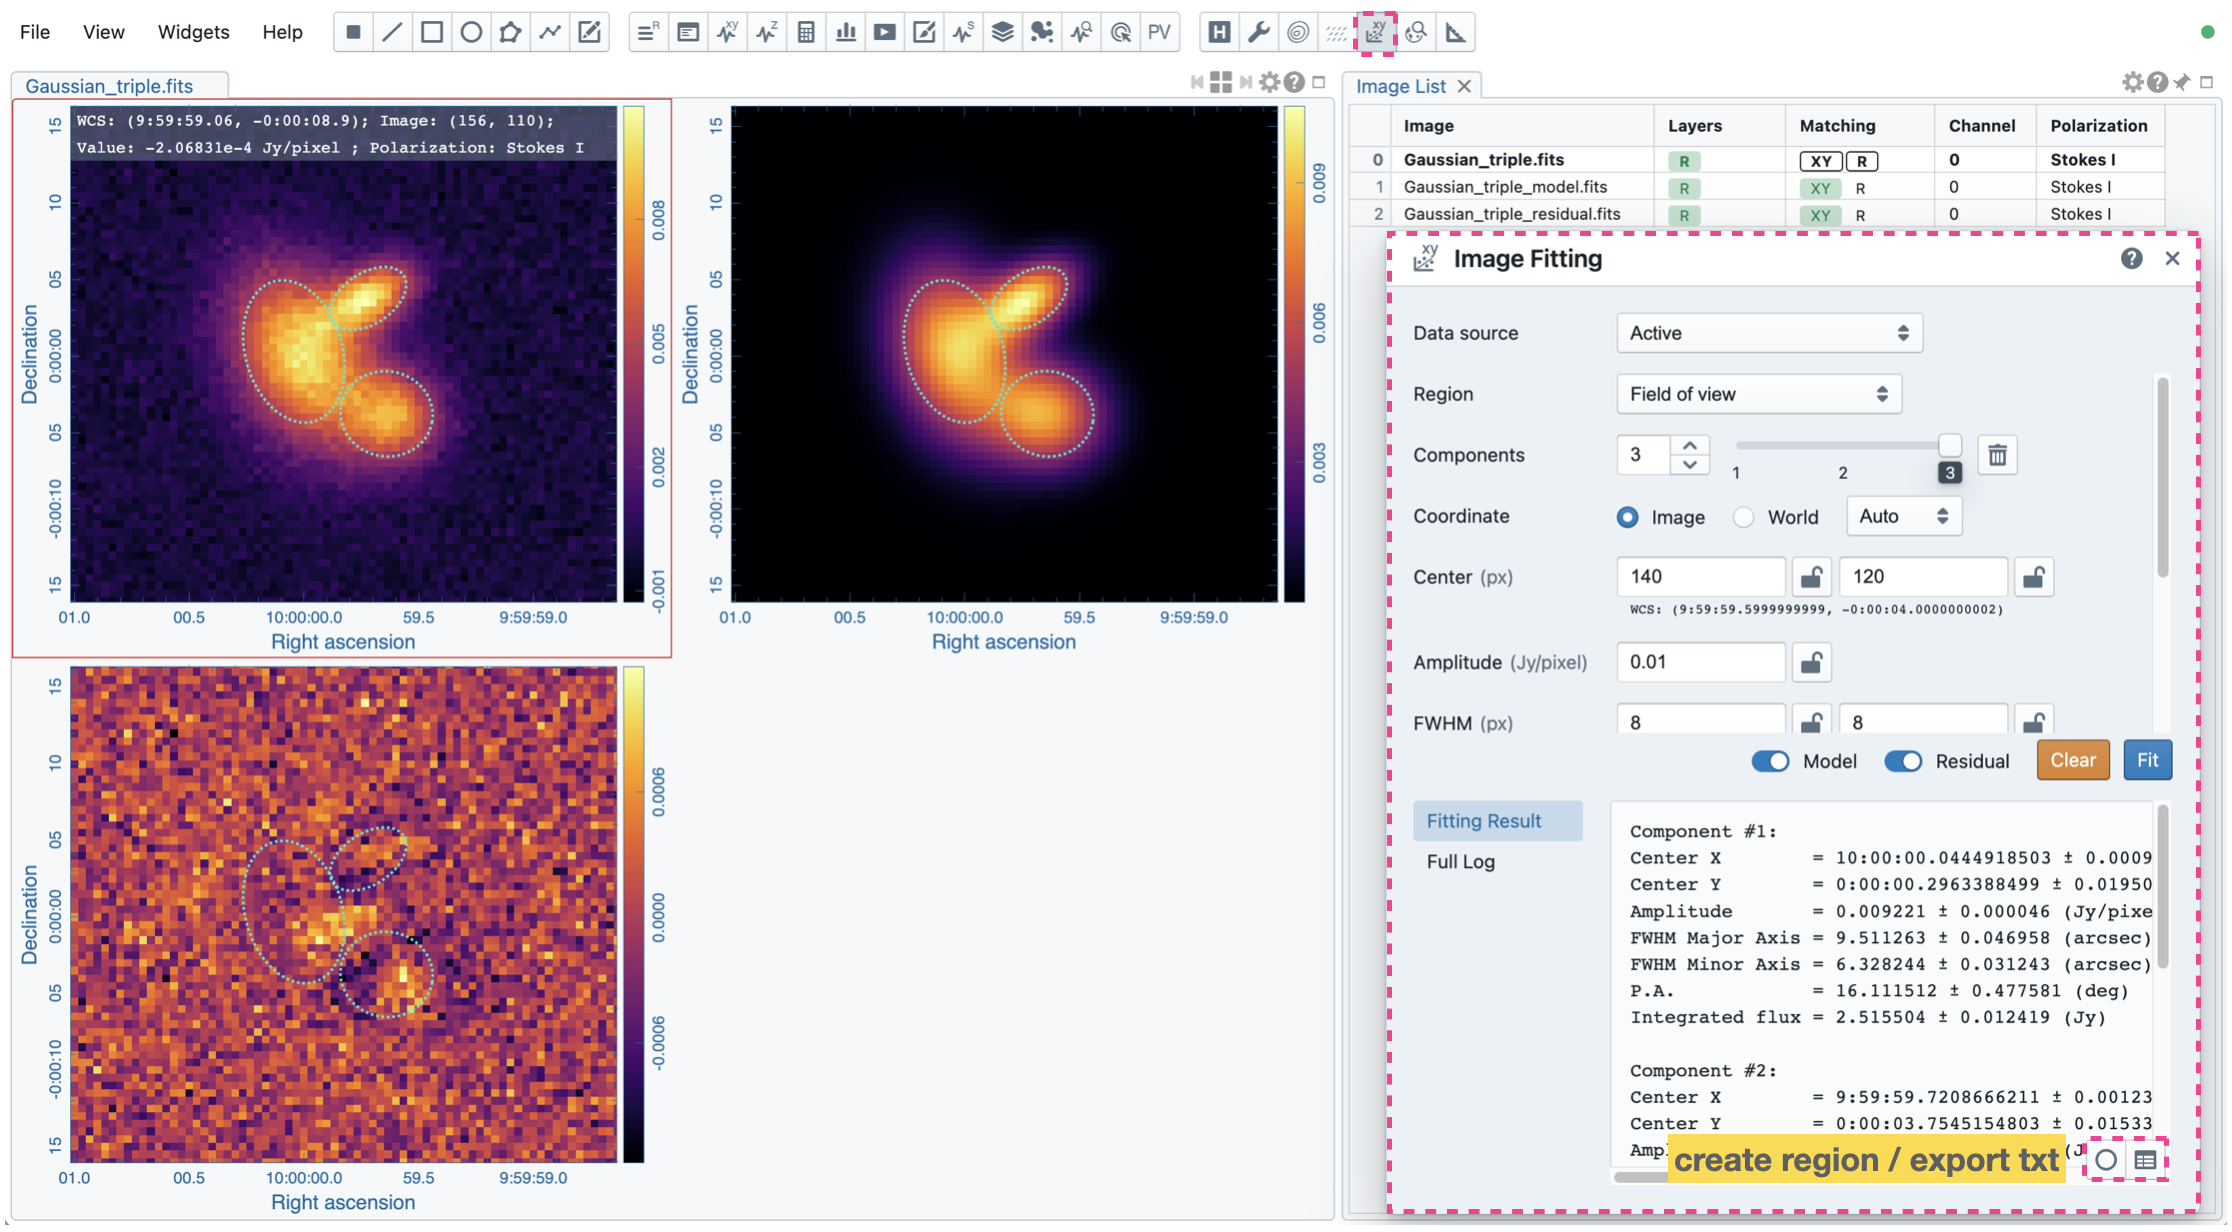
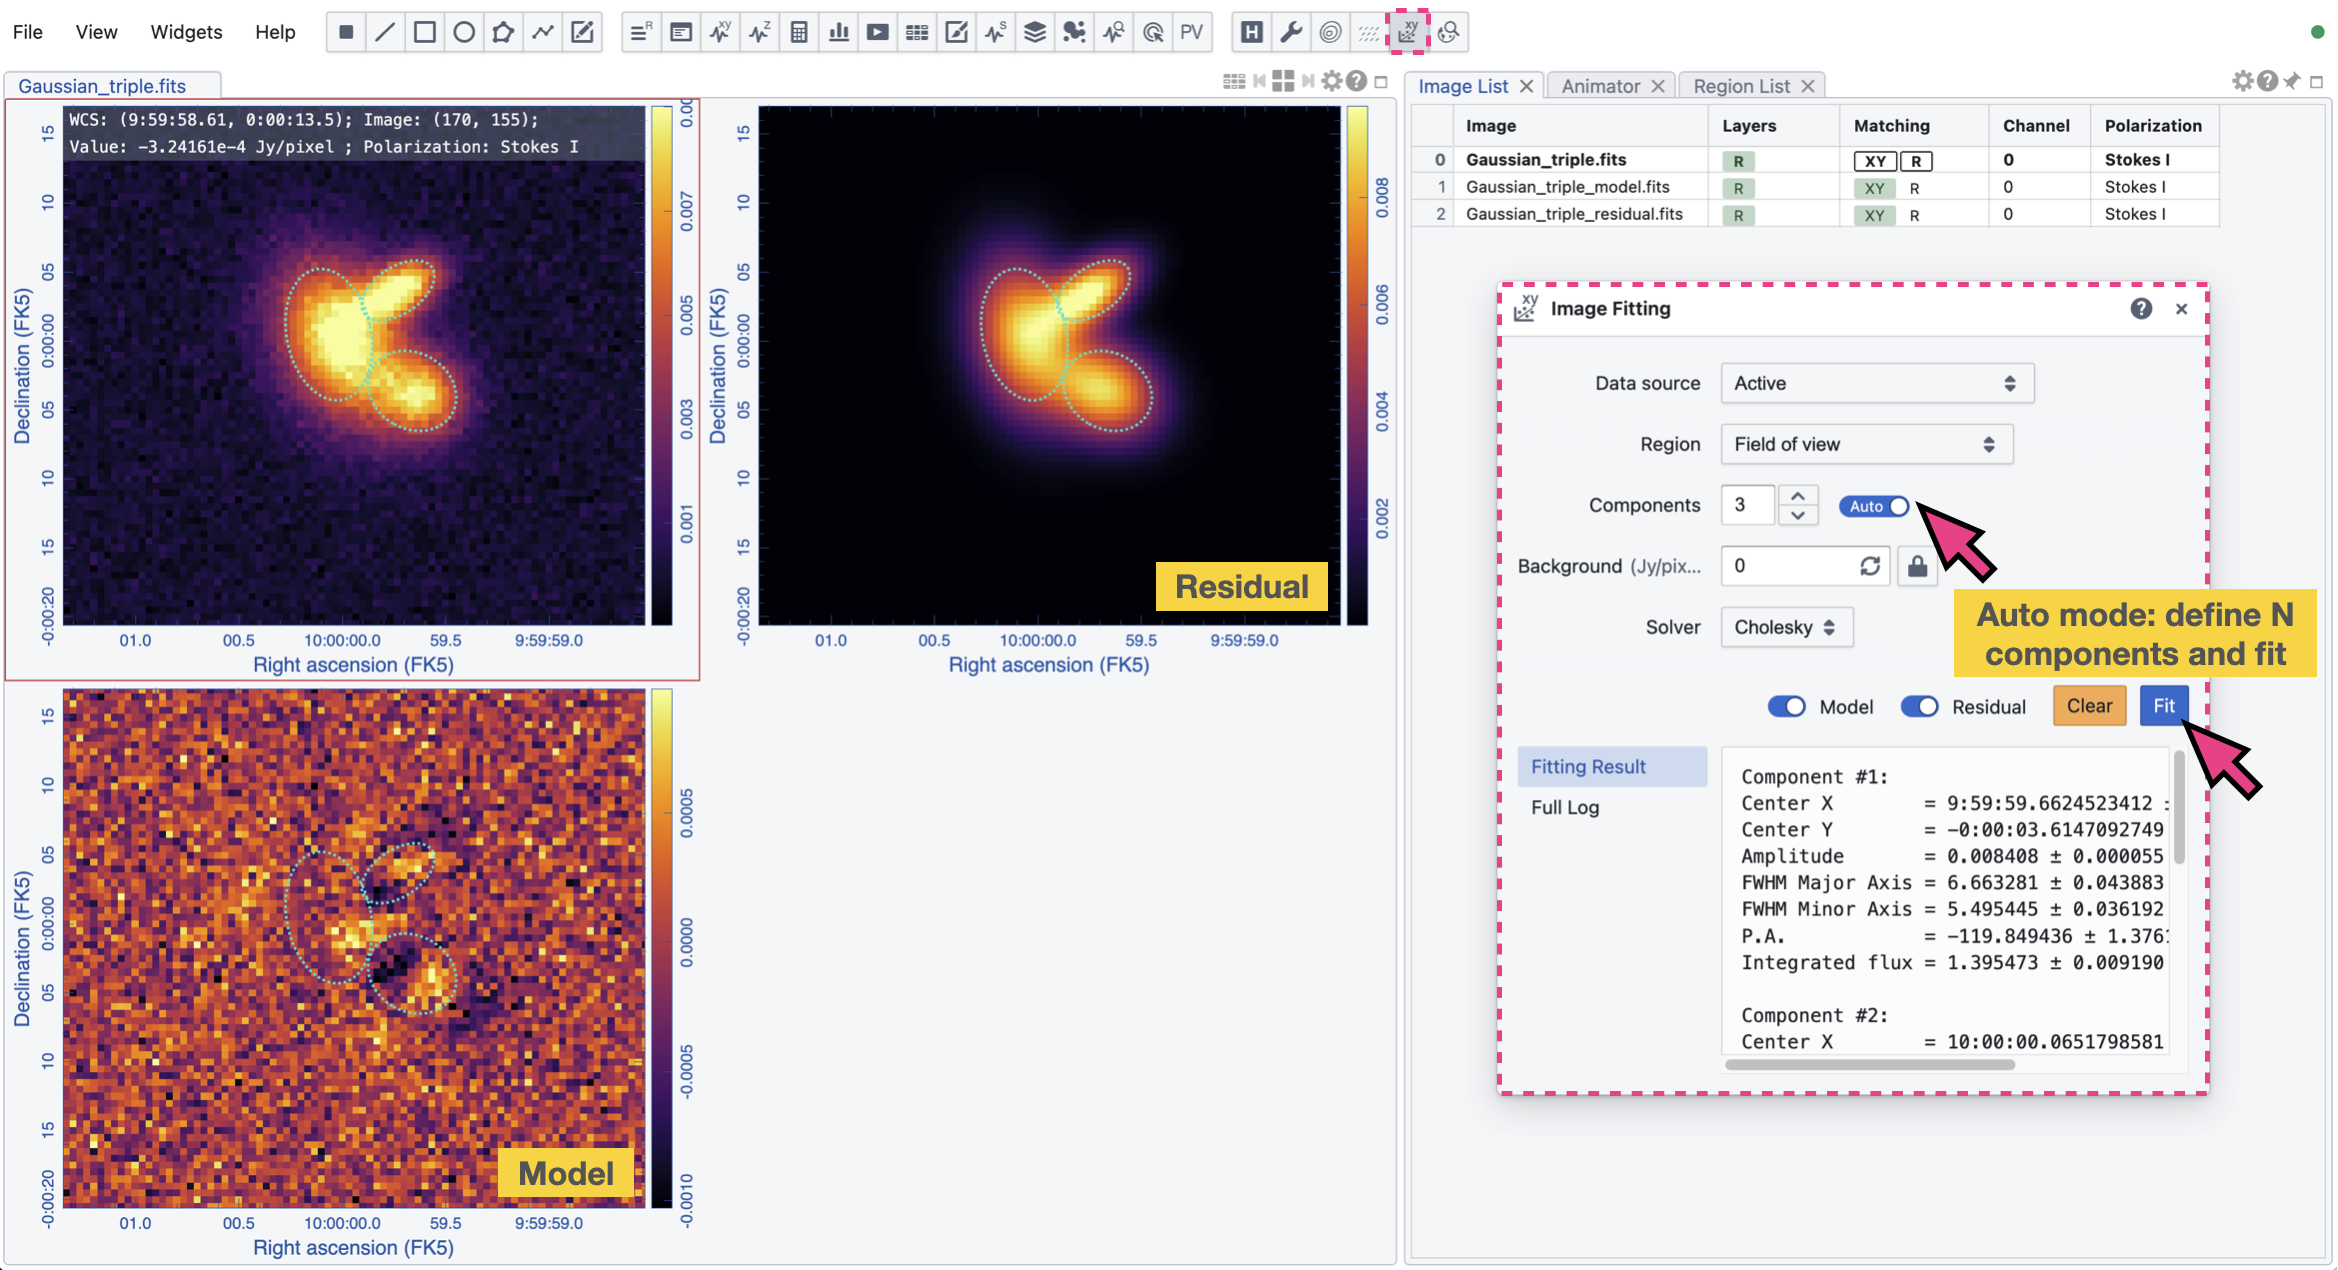
update image fitting

Changed region(s): [[0.0, 0.0, 1.0, 1.0], [0.371, 0.1542, 0.5255, 0.4318], [0.9892, 0.0, 1.0, 0.0308]]

diff --git a/source/image_fitting.rst b/source/image_fitting.rst
@@ -3,13 +3,8 @@
 Image fitting
 =============
 
-The Image Fitting Dialog can fit multiple 2D Gaussian components to your image. The default "**Data source**" is the active image, which is the current image in the Image Viewer in single-panel mode or the image highlighted with a red box if it is in multi-panel mode. You may select other images as the input image with the "**Data source**" dropdown menu.
+The Image Fitting Dialog can be used to fit multiple 2D Gaussian components to your image. Additionally, a constant background value can be added to the fit if it is necessary.
 
-By default, the image pixels used for the fitting process are coupled to the field of view of the Image Viewer. You can use zoom and pan actions to focus on the target image feature for the fit. Alternatively, you can select a region of interest or use a full image for the fitting process.
-
-You can use the "**Components**" spinbox to define the number of Gaussian components in the fit. For each component, you need to define a set of initial guesses to describe a 2D Gaussian, including "**Center**", "**Amplitude**", "**FWHM**", and "**P.A. (deg)**" (position angle). A constant "**Background**" value can be added to the fit as well. Free parameters may be fixed in the fitting process when it is necessary. You need to specify a set of initial guesses for each Gaussian component. Please note that if multiple Gaussian components exist, a more accurate initial guess helps the fitter to converge more quickly to a stable location on the hypersurface.
-
-The major FWHM axis is aligned to the North-South direction of the sky, while the minor FWHM axis is aligned to the East-West direction of the sky. The origin (0 degrees) of the P.A. points to the North, and the P.A. increases toward the East.
 
 .. raw:: html
 
@@ -19,17 +14,48 @@ The major FWHM axis is aligned to the North-South direction of the sky, while th
    </a>
 
 
-Once the initial solutions of Gaussian components are set, you can click the "**Fit**" button to trigger the image fitting process. The fitting result is displayed in the "**Fitting Result**" tab. In the "**Full Log**" tab, more information about the fitting results is provided, including the best-fit solution in the image coordinate. Optionally, via the "**Create ellipse region**" button in the bottom-right corner of the "**Fitting Result**" tab, you can generate a set of ellipse regions to represent the FWHM of the best-fit Gaussians. You can export the fitting result or log as a text file by using the "**Export**" button in the bottom-right corner of the "**Fitting Result**" tab. The model and residual images will be generated in RAM and appended by default once the fitting process succeeds. You can use the toggles to turn off the feature if these are not required. If you want to keep the model and residual images, use the menu "**File**" -> "**Save Image**" to save them to disk.
+Fitting scope
+-------------
 
-.. warning::
-   In a resumed session after a broken connection to the backend, all in-memory images, such as the model and residual images from image fitting, are lost. Those images will not be accessible in the resumed session.
+The default "**Data source**" is the active image, which is the current image in the Image Viewer in single-panel mode or the image highlighted with a red box if it is in multi-panel mode. You may select other images as the input image with the "**Data source**" dropdown menu.
 
-Three different solvers ("Cholesky", "QR", "SVD") are provided in the "**Solver**" dropdown menu (see `Nonlinear Least-Squares Fitting <https://www.gnu.org/software/gsl/doc/html/nls.html>`_ for more information). During the fitting process, you may cancel it if necessary. By clicking the "**Clear**" button, the widget is reset to its initial state.
+By default, the image pixels used for the fitting process are coupled to the field of view of the Image Viewer. You can use zoom and pan actions to focus on the target image feature for the fit. Alternatively, you can select a region of interest or use a full image for the fitting process using the "**Region**" dropdown menu.
 
+
+Initial guess: automatic
+------------------------
+Ususally when we perform image fitting, we need to provide a set of initial guesses for the fitting engine to work correctly. The "automatic" mode is designed to help you set up the initial guesses automatically based on the image feature. This mode can save you time and effort in setting up the initial guesses manually, especially when there are multiple components in the image.
+
+With this automatic mode (default), you can simply define how many Gaussian components you want to fit using the "Components" spinbox, and the fitting engine will analyze the image feature and set up the initial guesses of each component for you. Then with a click to the "Fit" button, the fitting process will be triggered. 
+
+
+
+Initial guess: manual
+---------------------
+In the "manual" mode, you need to provide a set of initial guesses for the fitting engine to work properly. You can use the "**Components**" spinbox to define the number of Gaussian components in the fit. For each component, you need to define a set of initial guesses to describe a 2D Gaussian, including "**Center**", "**Amplitude**", "**FWHM**", and "**P.A. (deg)**" (position angle). A constant "**Background**" value can be added to the fit as well. Free parameters may be fixed in the fitting process when it is necessary. Please note that if multiple Gaussian components exist, a more accurate initial guess helps the fitter to converge more quickly to a stable location on the hypersurface.
+
+The major FWHM axis is aligned to the North-South direction of the sky, while the minor FWHM axis is aligned to the East-West direction of the sky. The origin (0 degrees) of the P.A. points to the North, and the P.A. increases toward the East.
+
+.. raw:: html
+
+   <a href="_static/carta_fn_imageFitting_manual.png" target="_blank">
+       <img src="_static/carta_fn_imageFitting_manual.png" 
+           style="width:100%;height:auto;">
+   </a>
+
+Fitting solvers
+---------------
+Three different solvers ("Cholesky", "QR", "SVD") are provided in the "**Solver**" dropdown menu (see `Nonlinear Least-Squares Fitting <https://www.gnu.org/software/gsl/doc/html/nls.html>`_ for more information). 
+
+
+Trigger fitting and view results
+--------------------------------
+Once the initial solutions of Gaussian components are set either automatically or manually, you can click the "**Fit**" button to trigger the image fitting process. The fitting result is displayed in the "**Fitting Result**" tab. In the "**Full Log**" tab, more information about the fitting results is provided, including the best-fit solution in the image coordinate. Optionally, via the "**Create ellipse region**" button in the bottom-right corner of the "**Fitting Result**" tab, you can generate a set of ellipse regions to represent the FWHM of the best-fit Gaussians. You can export the fitting result or log as a text file by using the "**Export**" button in the bottom-right corner of the "**Fitting Result**" tab. The model and residual images will be generated in RAM and appended by default once the fitting process succeeds. You can use the toggles to turn off the feature if these are not required. If you want to keep the model and residual images, use the menu "**File**" -> "**Save Image**" to save them to disk.
+
+During the fitting process, you may cancel it if necessary. By clicking the "**Clear**" button, the widget is reset to its initial state.
 
 .. note::
    The error estimate is based on the paper by `J. J. Condon (1997; PASP 109, 166) <https://ui.adsabs.harvard.edu/abs/1997PASP..109..166C>`_.
 
-.. note::
-
-   In a future release, the image fitting function will be enhanced by adding the capability to set the initial guess *automatically* based on the image feature (i.e., similar to the "guess" function in the spectral profile fitting function).
+.. warning::
+   In a resumed session after a broken connection to the backend, all in-memory images, such as the model and residual images from image fitting, are lost. Those images will not be accessible in the resumed session.
